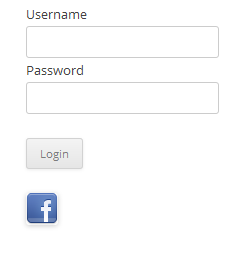
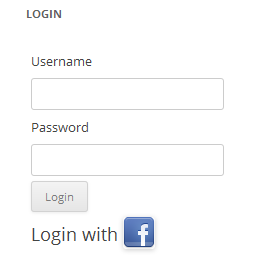
update.
git-svn-id: https://plugins.svn.wordpress.org/facebook-login-afo/trunk@932202 b8457f37-d9ea-0310-8a92-e5e31aec5664

Changed region(s): [[0.085, 0.2179, 0.9069, 0.965], [0.085, 0.0311, 0.9069, 0.2179]]

diff --git a/style_login_widget.css b/style_login_widget.css
@@ -9,3 +9,7 @@
     width: 97%;
 	clear:both !important;
 }
+
+.login_wid li{
+	margin:5px;
+}

diff --git a/login_afo_widget.php b/login_afo_widget.php
@@ -50,15 +50,13 @@ class fb_login_wid extends WP_Widget {
 		<form name="login" id="login" method="post" action="">
 		<input type="hidden" name="option" value="afo_user_login" />
 		<input type="hidden" name="redirect" value="<?php echo $redirect; ?>" />
-			<ul style="list-style-type:none;">
+			<ul class="login_wid">
 			<li>Username</li>
 			<li><input type="text" name="user_username" required="required"/></li>
 			<li>Password</li>
 			<li><input type="password" name="user_password" required="required"/></li>
-			<li>&nbsp;</li>
 			<li><input name="login" type="submit" value="Login" /></li>
-			<li>&nbsp;</li>
-			<li><a href="javascript:void(0)" onClick="FBLogin();"><img src="<?php echo plugins_url( 'facebook.png' , __FILE__ );?>" alt="Fb Connect" title="Login with facebook" /></a></li>
+			<li><font size="+1" style="vertical-align:top;">Login with </font> <a href="javascript:void(0)" onClick="FBLogin();"><img src="<?php echo plugins_url( 'facebook.png' , __FILE__ );?>" alt="Fb Connect" title="Login with facebook" /></a></li>
 			</ul>
 		</form>
 		<?php 
@@ -67,7 +65,7 @@ class fb_login_wid extends WP_Widget {
      	get_currentuserinfo();
 		$link_with_username = 'Howdy, '.$current_user->display_name;
 		?>
-		<ul style="list-style-type:none;">
+		<ul class="login_wid">
 			<li><?php echo $link_with_username;?> | <a href="<?php echo wp_logout_url(site_url()); ?>" title="Logout">Logout</a></li>
 		</ul>
 		<?php 
